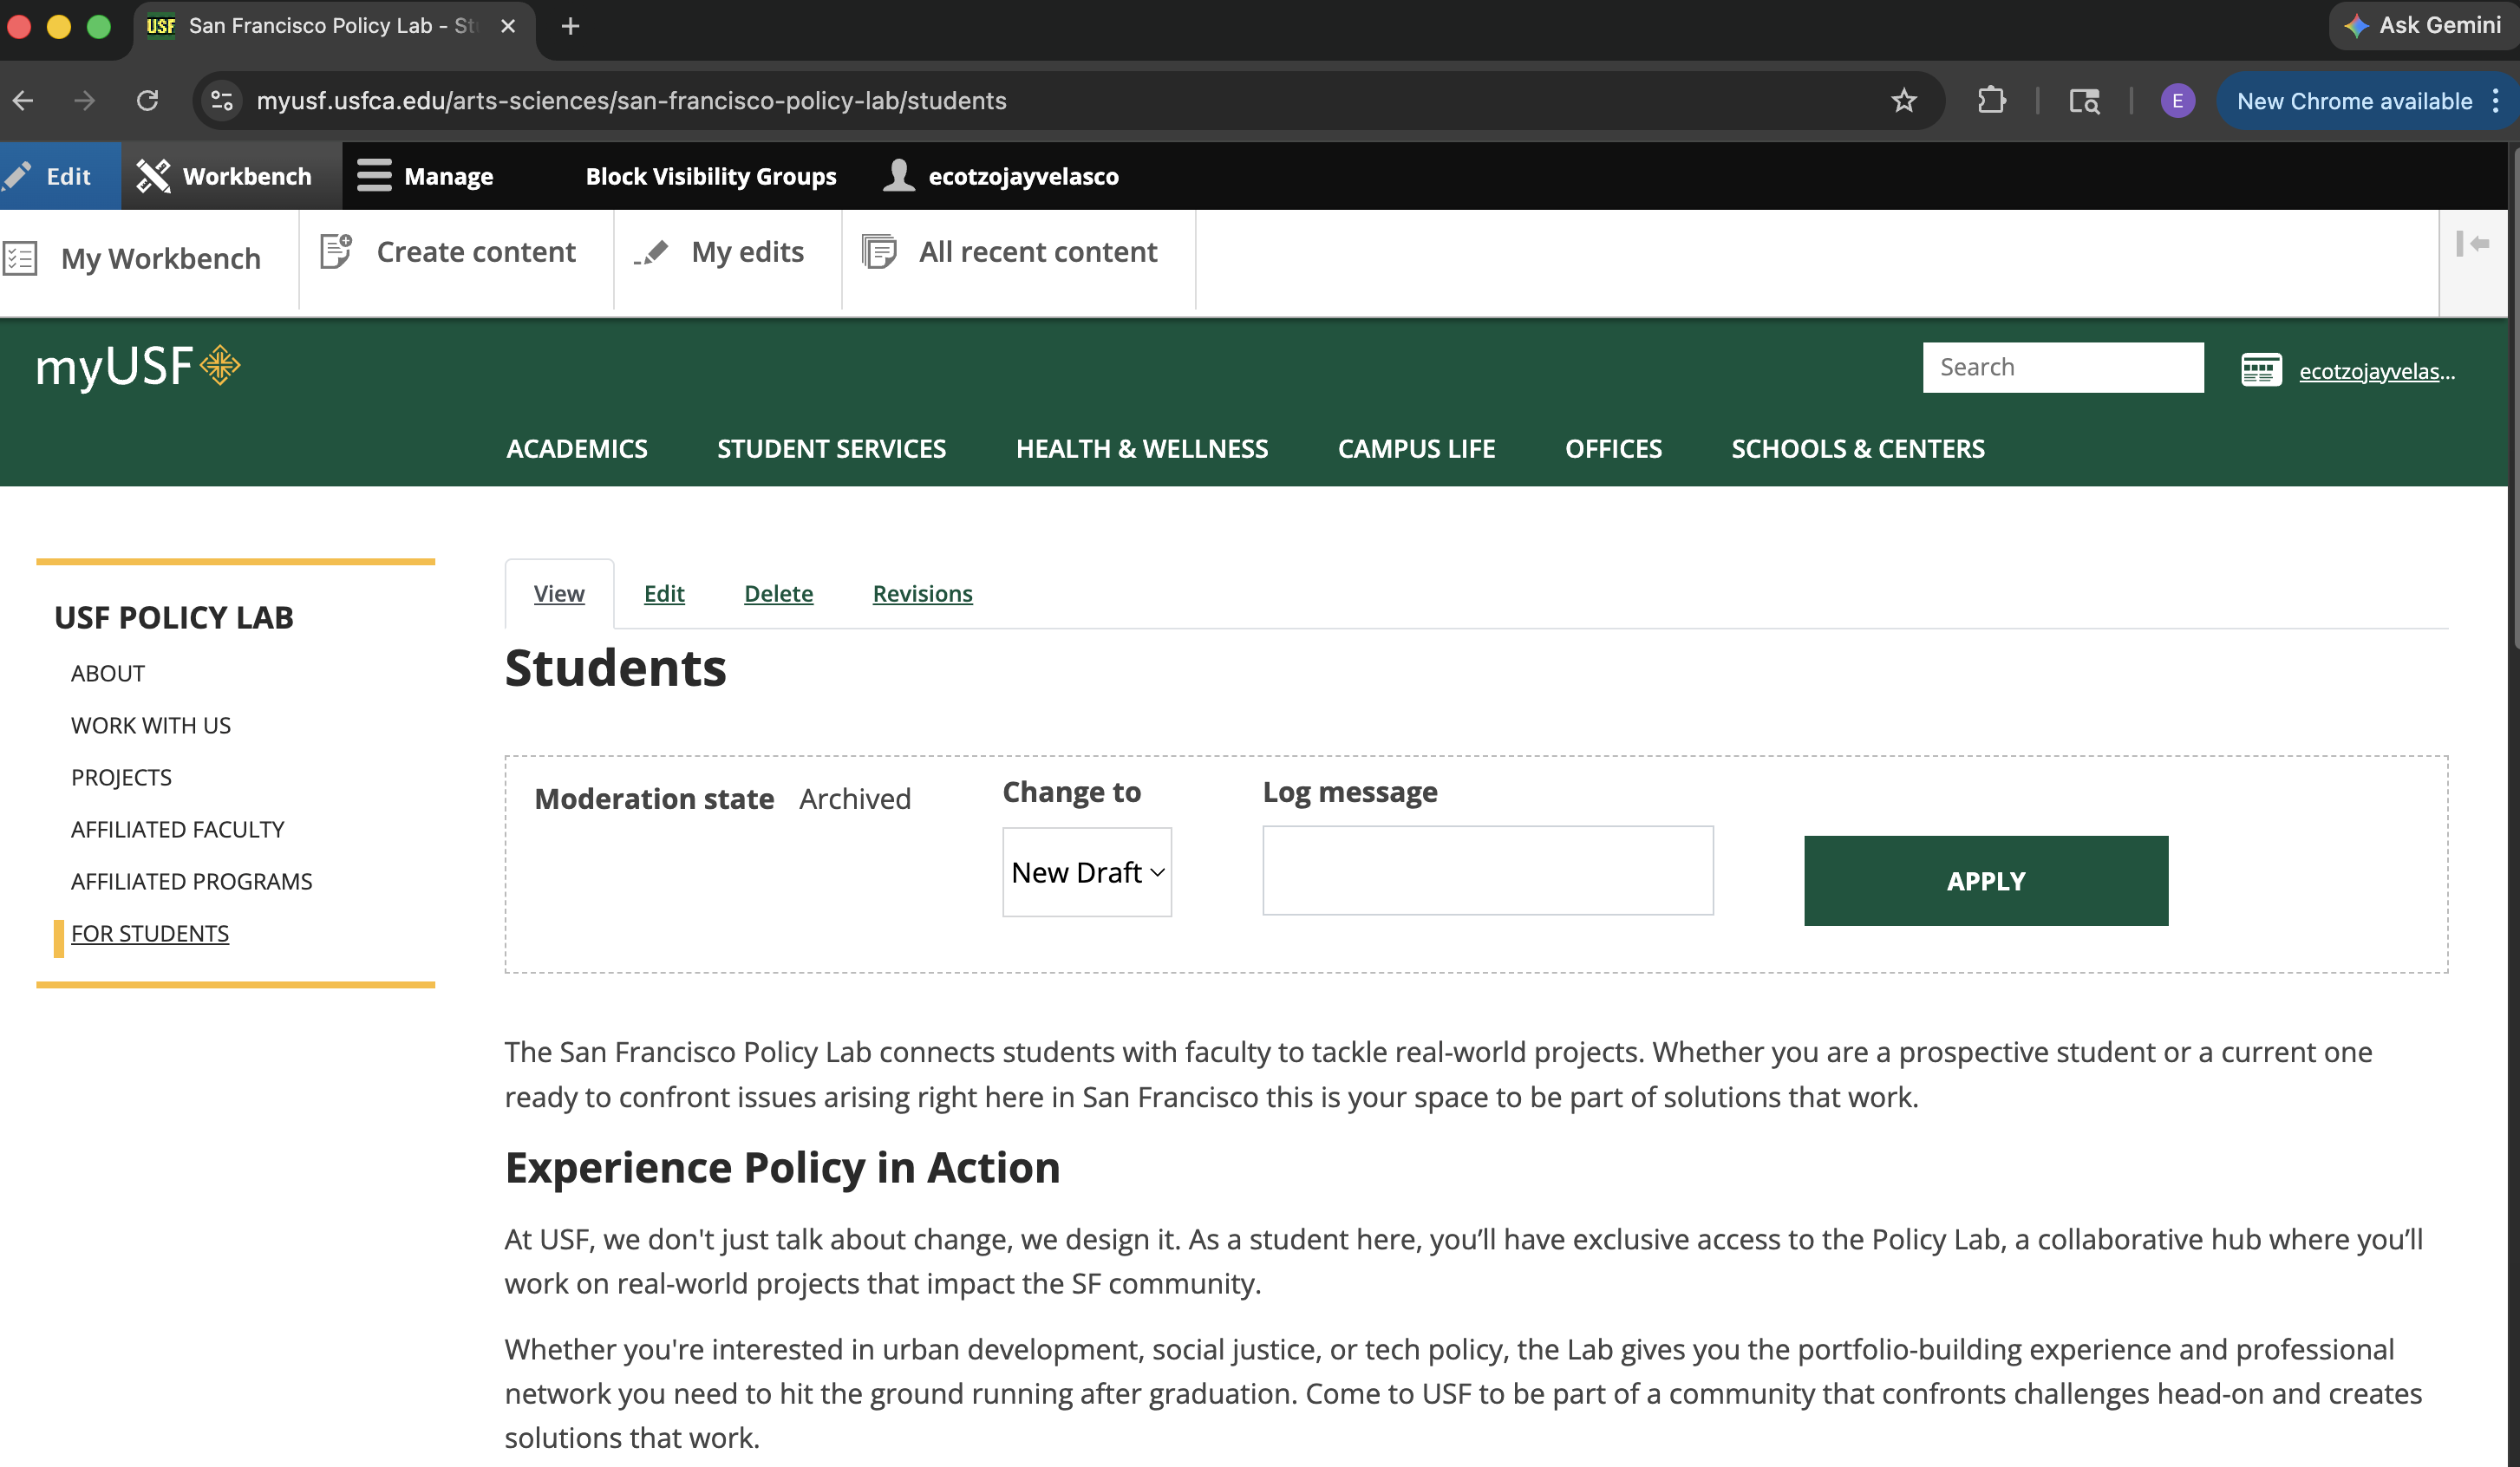
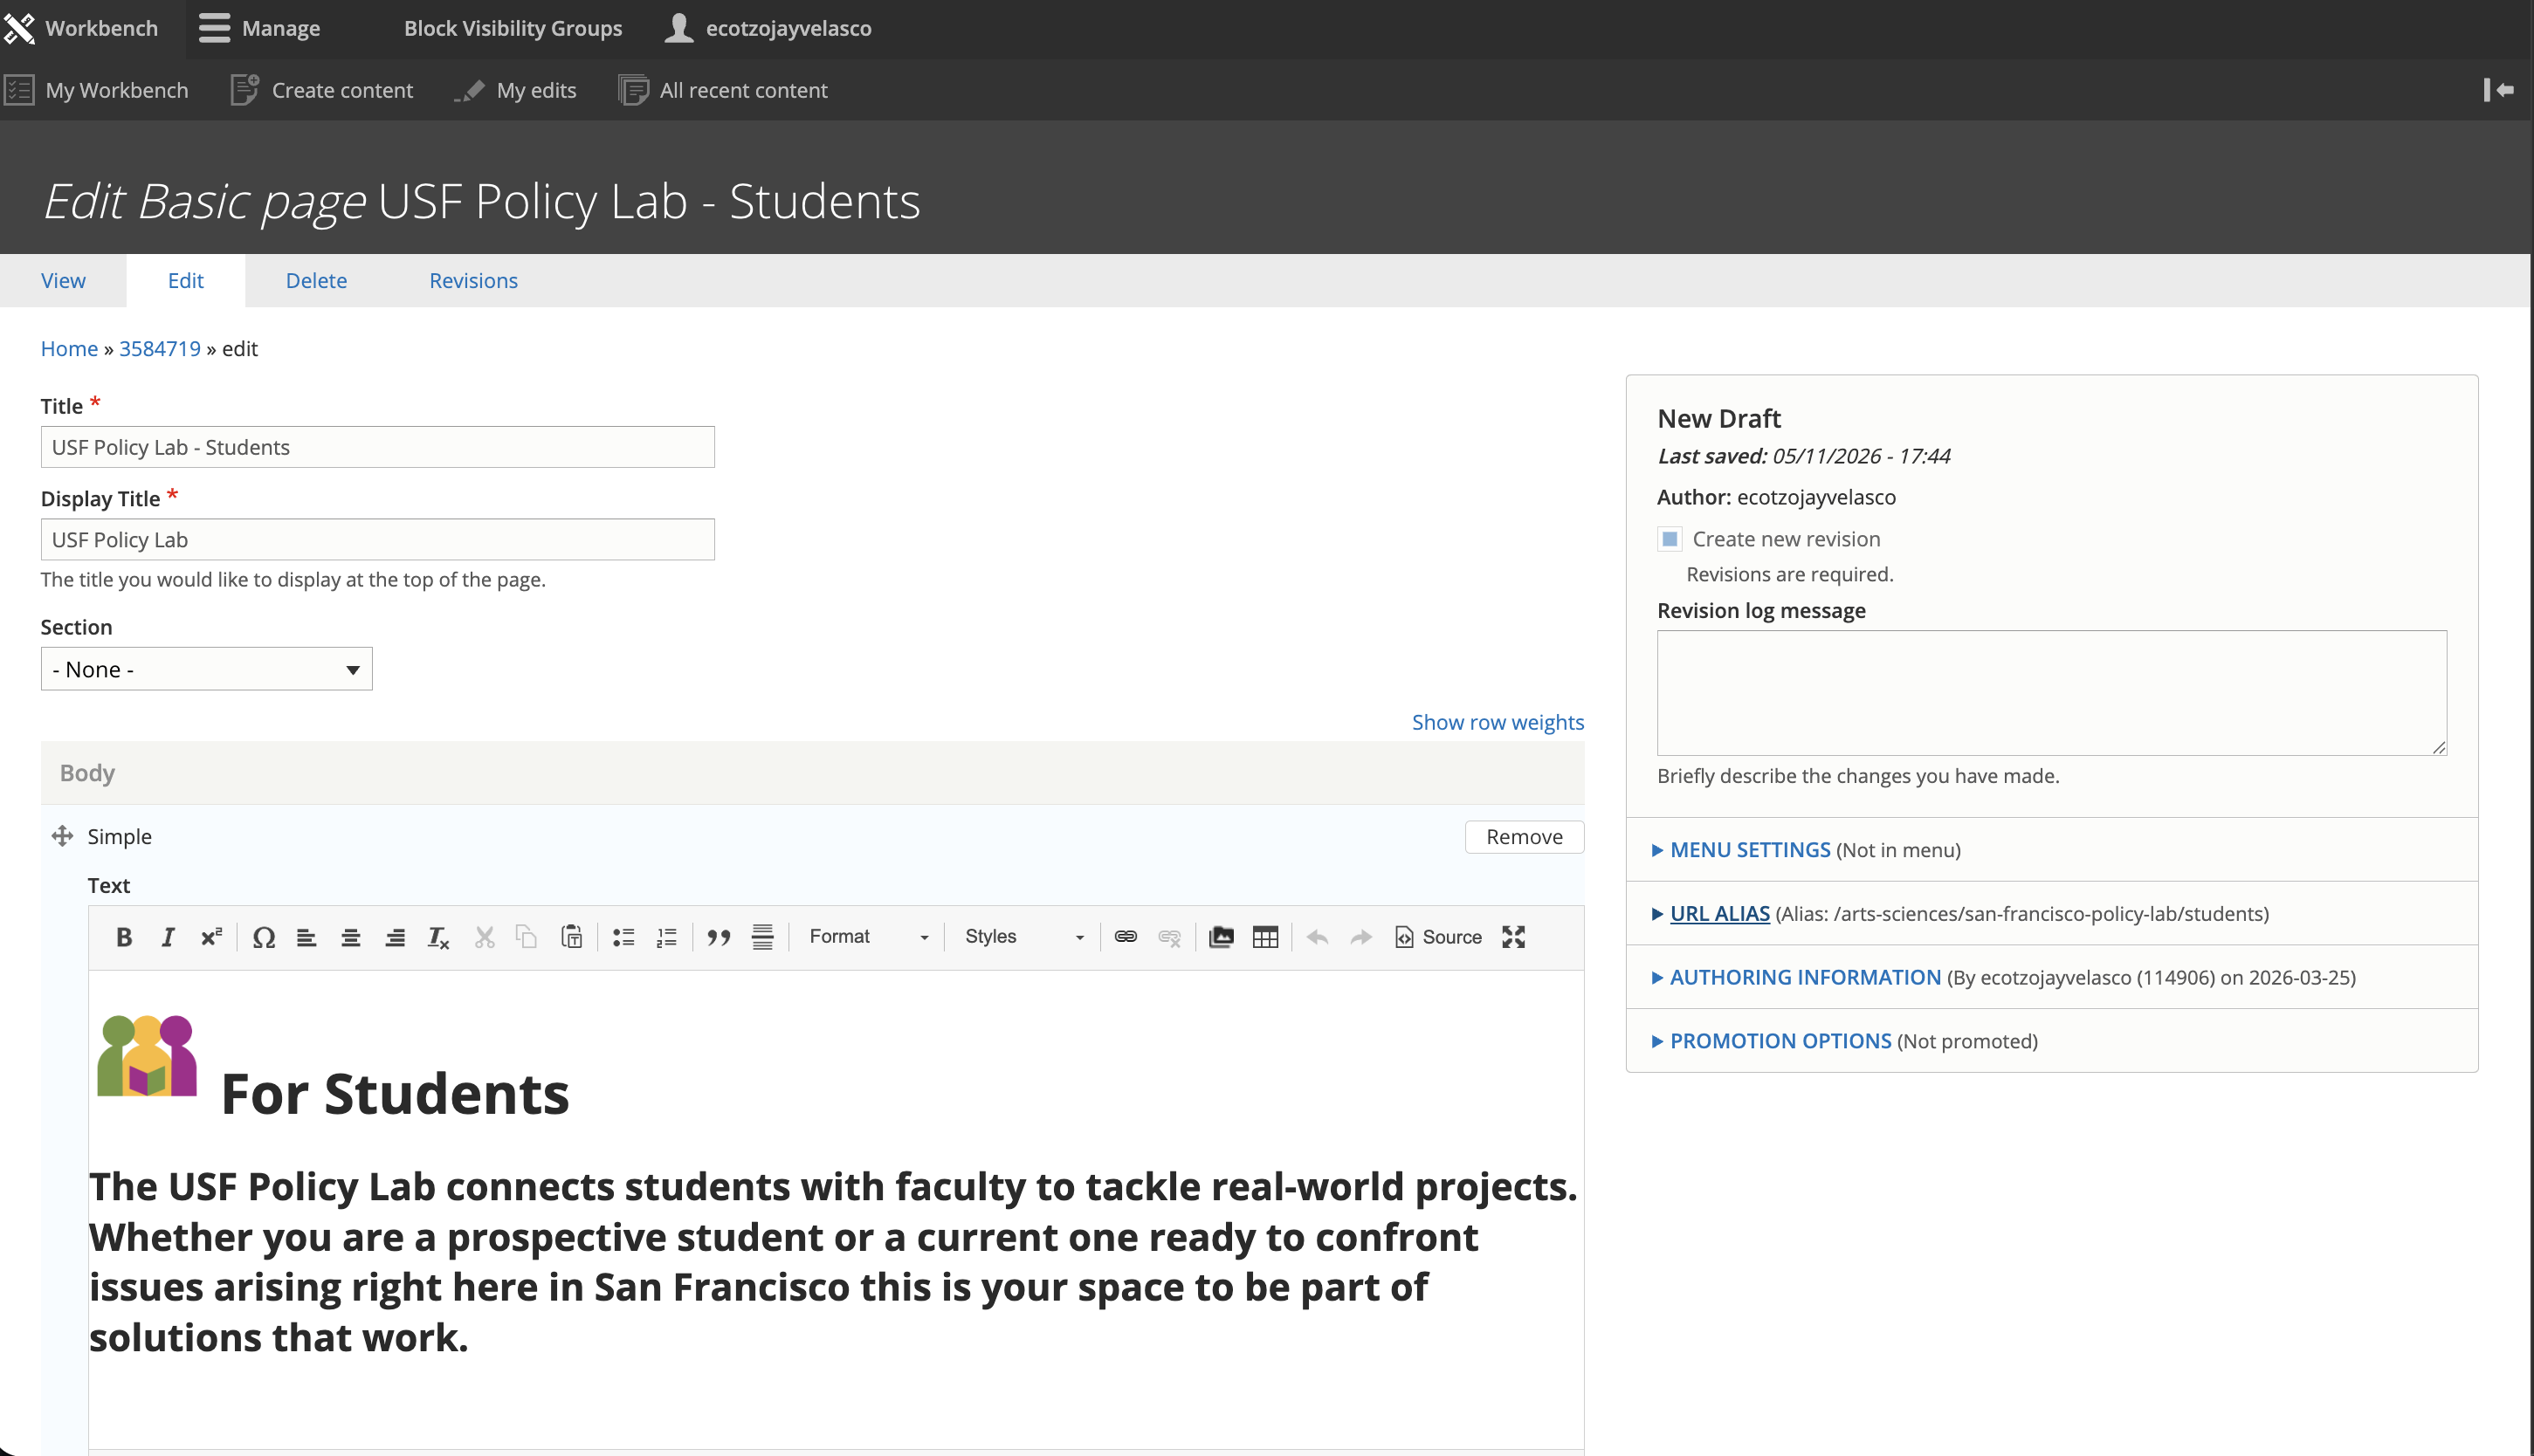
Updated theBenefit project

diff --git a/projects/projects.html b/projects/projects.html
@@ -90,7 +90,7 @@
         		</div>
 
 				<div class="project-card" onclick="openModal('modal-policy')">
-            		<img src="img/images/policylab/illustrator.png" alt="Policy Lab" class="card-image">
+            		<img src="img/images/policylab/policy-page.png" alt="Policy Lab" class="card-image">
             		<div class="card-overlay">
 						<h3>USF Policy Lab</h3>
 						<p>Building a Digital Foundation for Policy Research</p>
@@ -102,6 +102,14 @@
 					<div class="card-overlay">
 						<h3>Paris Blog</h3>
 						<p>Ideation, Design, & Custom Implementation</p>
+					</div>
+				</div>
+
+				<div class="project-card" onclick="openModal('modal-benefit')">
+					<img src="img/images/thebenefit/primeras-homepage.png" alt="Primeras Abroad Homepage" class="card-image">
+					<div class="card-overlay">
+						<h3>Primeras Abroad</h3>
+						<p>Conceptualized & Curated Benefit Event</p>
 					</div>
 				</div>
 
@@ -126,13 +134,6 @@
 					<div class="card-overlay">
 						<h3>Small Projects</h3>
 						<p>Design Basics / Principles Applied</p>
-					</div>
-				</div>
-
-				<div class="project-card" onclick="openModal('modal-the-benefit')">
-					<div class="card-overlay">
-						<h3>The Benefit</h3>
-						<p>Currently in progress - coming soon!</p>
 					</div>
 				</div>
 			</div>
@@ -264,20 +265,20 @@
 
 					<div class="image-carousel" id="policy-carousel">
 						<figure class="carousel-item">
-							<img src="img/images/policylab/iteration1.png" alt="SignUp Screen" />
+							<img src="img/images/policylab/iteration1.png" alt="Logo iterations in black and white" />
 							<figcaption>Initial logo iterations</figcaption>
 						</figure>
 						<figure class="carousel-item">
-							<img src="img/images/policylab/iteration2.png" alt="AI Camera Interface" />
-							<figcaption>Additional logo iterations and initial color palette</figcaption>
+							<img src="img/images/policylab/illustrator.png" alt="Adobe Illustrator interface with black and white logo iterations" />
+							<figcaption>Additional logo iterations</figcaption>
 						</figure>
 						<figure class="carousel-item">
-							<img src="img/images/policylab/policy-edits.png" alt="Educational Resources" />
+							<img src="img/images/policylab/policy-edits.png" alt="USF's website builder" />
 							<figcaption>Working with USF's WYSIWYG platform to build out the website</figcaption>
 						</figure>
 						<figure class="carousel-item">
-							<img src="img/images/policylab/policy-page.png" alt="Full Flow"/>
-							<figcaption>Fully polished page that organizes the lab's information in the USF interface</figcaption>
+							<img src="img/images/policylab/policy-page.png" alt="USF Policy Lab Students Page"/>
+							<figcaption>Fully polished Students page</figcaption>
 						</figure>
 					</div>
 
@@ -323,19 +324,19 @@
 
 					<div class="image-carousel" id="blog-carousel">
 						<figure class="carousel-item">
-							<img src="img/images/theblog/moodboard.png" alt="SignUp Screen" />
+							<img src="img/images/theblog/moodboard.png" alt="Figma workspace with a collection of images showing Parisian streets and aesthetic" />
 							<figcaption>Curation of typography, color, and photography of the Parisian aesthetic</figcaption>
 						</figure>
 						<figure class="carousel-item">
-							<img src="img/images/theblog/low-fi.png" alt="AI Camera Interface" />
+							<img src="img/images/theblog/low-fi.png" alt="Sketches and Low-fidelity wireframes" />
 							<figcaption>Moving from sketches to low-fidelity wireframes to define user flow</figcaption>
 						</figure>
 						<figure class="carousel-item">
-							<img src="img/images/theblog/illustrator.png" alt="Educational Resources" />
+							<img src="img/images/theblog/illustrator.png" alt="Adobe Illustrator workspace with vector based illustrations" />
 							<figcaption>Vector illustration for navigation icons and branding elements</figcaption>
 						</figure>
 						<figure class="carousel-item">
-							<img src="img/images/theblog/high-fi.png" alt="Full Flow"/>
+							<img src="img/images/theblog/high-fi.png" alt="High-fidelity wireframes for each page"/>
 							<figcaption>Finalized high-fidelity sketches</figcaption>
 						</figure>
 						<figure class="carousel-item">
@@ -374,6 +375,65 @@
 			</div>
 		</div>
 
+		<!--The Benefit Project-->
+		<div id="modal-benefit" class="modal">
+			<div class="modal-content split-view">
+				<span class="close-modal" onclick="closeModal('modal-benefit')">&times;</span>
+				
+				<div class="modal-left">
+					<button class="nav-arrow left-arrow" onclick="moveCarousel('benefit', -1)">&#10094;</button>
+					<button class="nav-arrow right-arrow" onclick="moveCarousel('benefit', 1)">&#10095;</button>
+
+					<div class="image-carousel" id="benefit-carousel">
+						<figure class="carousel-item">
+							<img src="img/images/thebenefit/photoshop.png" alt="Adobe Photoshop workspace with images imported" />
+							<figcaption>Collected images for website and poster</figcaption>
+						</figure>
+						<figure class="carousel-item">
+							<img src="img/images/thebenefit/poster.png" alt="Poster of Primeras Abroad with two women facing forward and text surrounding them." />
+							<figcaption>Used Adobe Illustrator to make illustrations</figcaption>
+						</figure>
+						<figure class="carousel-item">
+							<img src="img/images/thebenefit/framer.png" alt="Framer workspace including the Primeras Abroad homepage and tools surrounding it." />
+							<figcaption>Used Framer to build Primeras Abroad website</figcaption>
+						</figure>
+						<figure class="carousel-item">
+							<video autoplay loop muted playsinline class="carousel-video"><source src="img/images/thebenefit/primeras-recording.mp4" type="video/mp4">Your browser does not support the video tag.
+    						</video>
+    						<figcaption>Final responsive site that pulls all the assets together</figcaption>
+						</figure>
+					</div>
+
+					<div class="progress-container">
+						<div class="progress-bar" id="benefit-progress"></div>
+					</div>
+				</div>
+
+				<div class="modal-right">
+					<div class="modal-header">
+						<div class="header-intro">
+							<img src="img/icons/primeras.png" alt="Primeras Abroad Logo" class="modal-logo"/>
+							<h3 class="modal-project-title">Conceptualized & Curated Benefit Event</h3>
+						</div>
+					</div>
+
+					<section class="modal-section">
+						<h3>Objective</h3>
+						<p>Conceptualize and curate a comprehensive benefit event and brand identity for a self-selected cause, integrating multi-channel deliverables including a responsive website and professional poster.</p>
+					</section>
+
+					<section class="modal-section">
+						<h3>Implementation</h3>
+						<ul>
+							<li>Collaborated with USF's Study Abroad office to identify institutional gaps and cultural barriers preventing first-generation Latina students from accessing international programs.</li>
+							<li>Developed Primeras Abroad, a benefit initiative featuring four events: a "Family Pitch" workshop, alumni Q&A panels, a resource fair, and a technical planning workshop.</li>
+							<li>Created a full visual identity—including a custom logo, color palette, and typography—designed to feel culturally resonant, inclusive, and empowering.</li>
+						</ul>
+					</section>
+				</div>
+			</div>
+		</div>
+
 		<!--The Feed Project-->
 		<div id="modal-feed" class="modal">
 			<div class="modal-content split-view">
@@ -385,15 +445,15 @@
 
 					<div class="image-carousel" id="feed-carousel">
 						<figure class="carousel-item">
-							<img src="img/images/thefeed/illustrator.png" alt="SignUp Screen" />
+							<img src="img/images/thefeed/illustrator.png" alt="Adobe Illustrator workspace with cat illustrations." />
 							<figcaption>Created custom assets that add a personal touch to the site</figcaption>
 						</figure>
 						<figure class="carousel-item">
-							<img src="img/images/thefeed/illustrator2.png" alt="AI Camera Interface" />
+							<img src="img/images/thefeed/illustrator2.png" alt="Adobe Illustrator workspace incorporating cat illustrations into a laced background." />
 							<figcaption>Using Illustrator to integrate designs into the overall background</figcaption>
 						</figure>
 						<figure class="carousel-item">
-							<img src="img/images/thefeed/photoshop.png" alt="Educational Resources" />
+							<img src="img/images/thefeed/photoshop.png" alt="Adobe Photoshop workspace with a phone illustration." />
 							<figcaption>Using Photoshop to animate assets into the final GIF for the splash page</figcaption>
 						</figure>
 						<figure class="carousel-item">
@@ -423,7 +483,7 @@
 					<section class="modal-section">
 						<h3>Implementation</h3>
 						<ul>
-							<li>I developed a "Wildflower" aesthetic using soft creams, deep reds, and polka dots to give the tech-heavy content a more organic and personal feel.</li>
+							<li>Developed a "Wildflower" aesthetic using soft creams, deep reds, and polka dots to give the tech-heavy content a more organic and personal feel.</li>
 							<li>Built a custom "Feed" page that holds 12 different entries, making sure it was easy to scroll through everything chronologically.</li>
 						</ul>
 					</section>
@@ -442,7 +502,7 @@
 
 					<div class="image-carousel" id="coursework-carousel">
 						<figure class="carousel-item">
-							<img src="img/images/coursework/project2.png" alt="Early Portfolio" />
+							<img src="img/images/coursework/project2.png" alt="Altar Project" />
 							<figcaption>What does the word Altar mean to me</figcaption>
 						</figure>
 						<figure class="carousel-item">
@@ -482,8 +542,8 @@
 					<section class="modal-section">
 						<h3>Key Learnings</h3>
 						<ul>
-							<li><b>Visual Hierarchy:</b> Designing postcards that balances imagery with clear, readable typography.</li>
-							<li><b>Design Principles:</b> Applying concepts like contrast, alignment, and proximity to create cohesive and professional layouts.</li>
+							<li><b>Visual Hierarchy:</b> Designed postcards that balances imagery with clear, readable typography.</li>
+							<li><b>Design Principles:</b> Applied concepts like contrast, alignment, and proximity to create cohesive and professional layouts.</li>
 						</ul>
 					</section>
 				</div>